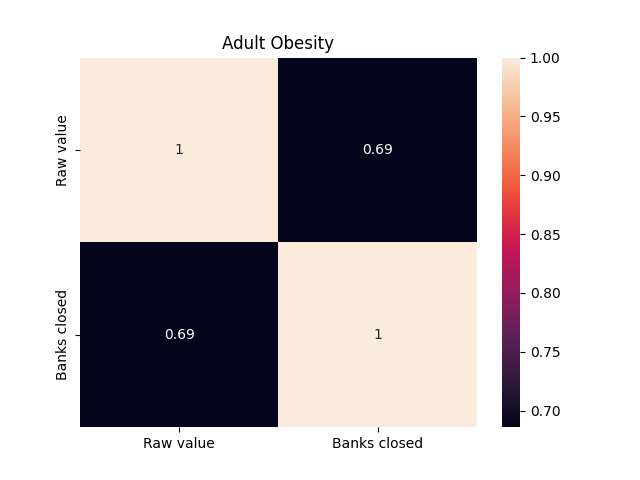
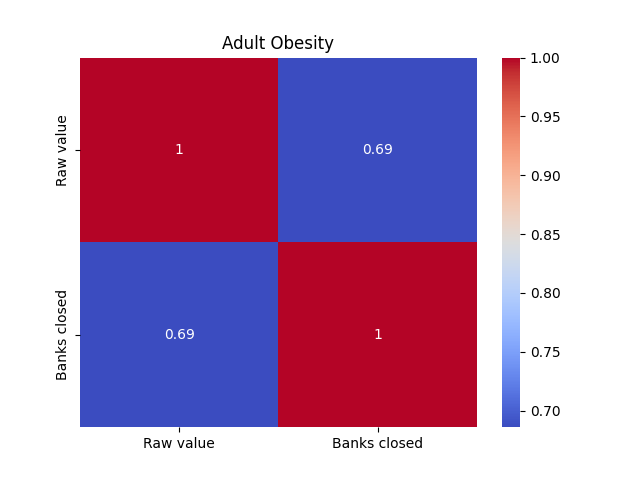
Changed the color of my heatmaps and changed the meteorite graph to a barplot

diff --git a/analyses/fl-health-rank_failed-banks.py b/analyses/fl-health-rank_failed-banks.py
@@ -36,43 +36,33 @@ std = merged.query("Measure_name == 'Sexually transmitted infections'")
 inact = merged.query("Measure_name == 'Physical inactivity'")
 obs = merged.query("Measure_name == 'Adult obesity'")
 
-#plt.plot(vCrime['Banks closed'],vCrime['Raw value'],)
-#plt.plot(unem['Banks closed'],unem['Raw value'])
-#plt.plot(unin['Banks closed'],unin['Raw value'])
-#plt.plot(std['Banks closed'],std['Raw value'])
-#plt.plot(inact['Banks closed'],inact['Raw value'])
-#plt.plot(obs['Banks closed'],obs['Raw value'])
-#plt.xlabel("Banks Closed")
-#plt.ylabel("Raw Value")
-#plt.savefig('bank-graphs/plot.png')
-#plt.close()
 
-sb.heatmap(vCrime.corr(numeric_only=True), annot=True)
+sb.heatmap(vCrime.corr(numeric_only=True), annot=True, cmap='coolwarm')
 plt.title("Violent Crime")
 plt.savefig(r"graphs\failed-banks_violent-crime.png")
 plt.close()
 
-sb.heatmap(unem.corr(numeric_only=True), annot=True)
+sb.heatmap(unem.corr(numeric_only=True), annot=True, cmap='coolwarm')
 plt.title("Unemployment")
 plt.savefig(r"graphs\failed-banks_unemployement.png")
 plt.close()
 
-sb.heatmap(unin.corr(numeric_only=True), annot=True)
+sb.heatmap(unin.corr(numeric_only=True), annot=True, cmap='coolwarm')
 plt.title("Uninsured")
 plt.savefig(r"graphs\failed-banks_uninsured.png")
 plt.close()
 
-sb.heatmap(std.corr(numeric_only=True), annot=True)
+sb.heatmap(std.corr(numeric_only=True), annot=True, cmap='coolwarm')
 plt.title("Sexually Transmitted Diseases")
 plt.savefig(r"graphs\failed-banks_std.png")
 plt.close()
 
-sb.heatmap(inact.corr(numeric_only=True), annot=True)
+sb.heatmap(inact.corr(numeric_only=True), annot=True, cmap='coolwarm')
 plt.title("Physical Inactivity")
 plt.savefig(r"graphs\failed-banks_physical-inactivity.png")
 plt.close()
 
-sb.heatmap(obs.corr(numeric_only=True), annot=True)
+sb.heatmap(obs.corr(numeric_only=True), annot=True, cmap='coolwarm')
 plt.title("Adult Obesity")
 plt.savefig(r"graphs\failed-banks_adult-obesity.png")
 plt.close()

diff --git a/analyses/meteorites_causes-of-death.py b/analyses/meteorites_causes-of-death.py
@@ -31,8 +31,15 @@ death_causes_df['GeoLocation'] = merged_df['GeoLocation']
 group = meteors.groupby('GeoLocation').count().rename(columns={'year': 'Meteors'})
 causes_meteors = pd.merge(group, death_causes_df, 'inner', 'GeoLocation')
 
+cor = causes_meteors.drop(columns='GeoLocation').corrwith(causes_meteors['Meteors'])
 
-
-sb.heatmap(causes_meteors.corr(numeric_only=True))
-print(causes_meteors.corr(numeric_only=True))
-plt.savefig(r'graphs\meteorites_cause-of-death_heatmap.png')
+cor.drop(index='Meteors', inplace=True)
+cor.rename(index={"Alzheimer's Disease and Other Dementias":"Alzheimer's Disease", "Cirrhosis and Other Chronic Liver Diseases":"Liver Diseases"},inplace=True)
+print(cor)
+colors = ['blue' if corr < 0 else 'red' for corr in cor]
+plt.figure(figsize=(10,6))
+plt.subplots_adjust(bottom=.4)
+sb.barplot(x=cor.index, y=cor.values, palette=colors)
+plt.xticks(rotation=45, ha="right",)
+plt.show()
+plt.savefig(r'graphs\meteorites_cause-of-death_barplot.png')

diff --git a/analyses/powerball_firearm.py b/analyses/powerball_firearm.py
@@ -41,7 +41,7 @@ merged["Odd count"] = oddCount(merged['Winning Numbers'])
 
 corr = merged.corr(numeric_only=True)
 
-sb.heatmap(corr, annot=True)
+sb.heatmap(corr, annot=True, cmap='coolwarm')
 plt.title("Correlation")
 plt.savefig(r'graphs\powerball_firearm_heatmap.png')
 plt.show()
